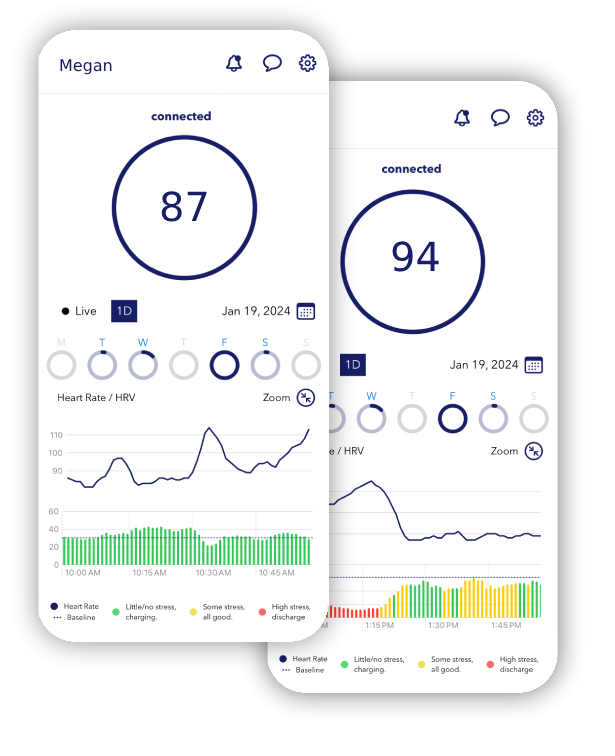
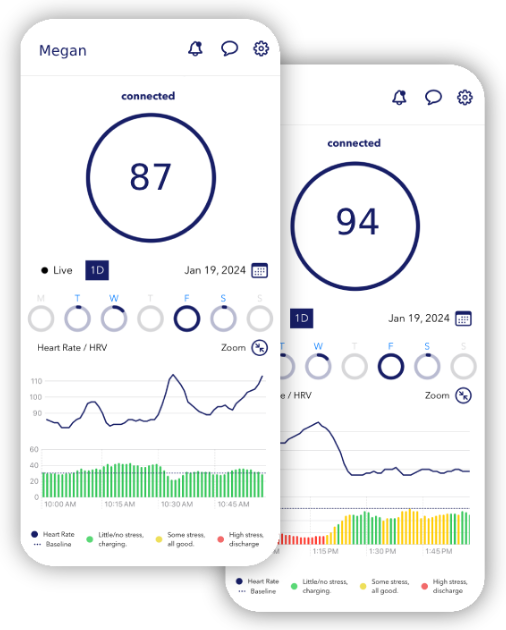
Added section, updated layouts and styling, and adjusted the responsiveness
Added section, updated layouts and styling, and adjusted the responsiveness

Changed region(s): [[0.0, 0.0, 0.9783, 0.9952], [0.2372, 0.2413, 0.3557, 0.3016]]

diff --git a/solution.html b/solution.html
@@ -168,14 +168,14 @@
     </section>
 
     <main>
-        <div class="container first-container" style="padding-block: 120px;">
+        <div class="container first-container" style="padding-block: 120px 60px;">
             <div class="row flat-row main_title wow fadeInUp" data-wow-delay="0.4s">
-                <div class="col-lg-6 col-sm-12 section-left">
+                <div class="col-lg-4 col-sm-12 section-left">
                     <figure>
-                        <img src="img/mobile-slide-0.png" alt="image">
+                        <img src="img/mobile-slide-0.png" class="img-fluid" alt="image">
                     </figure>       
                 </div>
-                <div class="col-lg-6 col-sm-12 section-right" style="text-align: left;margin: auto;">
+                <div class="col-lg-8 col-sm-12 section-right" style="text-align: left; margin: auto;">
                     <h2 id="stress-1">Stress Testing at its Best</h2>
                     <p>
                         The first to use A.I. to manage and predict stress levels, Code 4 Pro is an extremely
@@ -193,14 +193,9 @@
             </div>
         </div>
 
-        <div class="container second-container" style="padding-block: 0 120px;">
+        <div class="container second-container" style="padding-block: 0 60px;">
             <div class="row flat-row main_title wow fadeInUp" data-wow-delay="0.4s">
-                <div class="col-lg-6 col-sm-12 section-right mobile">
-                    <figure>
-                        <img src="img/mobile-slide-2.png" alt="image">
-                    </figure>
-                </div>
-                <div class="col-lg-6 col-sm-12 section-left" style="text-align: left;margin: auto;">
+                <div class="col-lg-8 col-sm-12 section-left" style="text-align: left; margin: auto;">
                     <h2 id="stress-2">
                         A Valuable ‘Co-Pilot’</h2>
 
@@ -221,22 +216,22 @@
                         difficult task.
                     </p>
                 </div>
-                <div class="col-lg-6 col-sm-12 section-right remove">
+                <div class="col-lg-4 col-sm-12 section-right remove">
                     <figure>
-                        <img src="img/mobile-slide-2.png" alt="image">
+                        <img src="img/mobile-slide-2.png" class="img-fluid" alt="image">
                     </figure>
                 </div>
             </div>
         </div>
 
-        <div class="container third-container" style="padding-block: 0 120px;">
+        <div class="container third-container" style="padding-block: 0 60px;">
             <div class="row flat-row main_title wow fadeInUp" data-wow-delay="0.4s">
-                <div class="col-lg-6 col-sm-12 section-left">
+                <div class="col-lg-4 col-sm-12 section-left">
                     <figure>
-                        <img src="img/mobile-slide-0.png" alt="image">
+                        <img src="img/mobile-slide-0.png" class="img-fluid" alt="image">
                     </figure>
                 </div>
-                <div class="col-lg-6 col-sm-12 section-right" style="text-align: left;margin: auto;">
+                <div class="col-lg-8 col-sm-12 section-right" style="text-align: left; margin: auto;">
                     <h2 id="stress-3">How It Works to Reduce Stress</h2>
 
                     <p>
@@ -269,13 +264,12 @@
 
         <div class="container fourth-container" style="padding-block: 0 120px;">
             <div class="row flat-row main_title wow fadeInUp" data-wow-delay="0.4s">
-
-                <div class="col-lg-6 col-sm-12 section-right mobile">
+                <div class="col-lg-4 col-sm-12 section-right mobile">
                     <figure>
-                        <img src="img/mobile-slide-2.png" alt="image">
+                        <img src="img/mobile-slide-2.png" class="img-fluid" alt="image">
                     </figure>
                 </div>
-                <div class="col-lg-6 col-sm-12 section-left" style="text-align: left;margin: auto;">
+                <div class="col-lg-8 col-sm-12 section-left" style="text-align: left; margin: auto;">
 
                     <h2 id="stress-3">Pairing Data with Artificial Intelligence</h2>
 
@@ -301,7 +295,7 @@
                         Post-Traumatic Stress Disorder (PTSD).
                     </p>
                 </div>
-                <div class="col-lg-6 col-sm-12 section-right remove">
+                <div class="col-lg-4 col-sm-12 section-right remove">
                     <figure>
                         <img src="img/mobile-slide-2.png" alt="image">
                     </figure>
@@ -310,21 +304,18 @@
             </div>
         </div>
   
-        <!-- End container -->
-        
-        <div class="search_container_2 flat-call-back">
-            <div class="container" id="decision-making">
-                <div class="row">
-                    <div class="col-lg-12">
-                        <div class="text-call-back">
-                            <div class="title">
-                                <h1>Decision-Making and Stress: A Proven Connection</h1>
-                            </div>
-                        </div>
+        <div class="container" style="padding-block: 0 120px;">
+            <div class="banner_2">
+                <div class="wrapper d-flex align-items-center opacity-mask banner colored">
+                    <div>
+                        <h3>Code 4 Pro <br>Leads the Way</h3>
+                        <p class="mb-3">	By pairing biometric HRV sensors with sophisticated A.I.-based tools <br> our unique solution can be used in any job setting.</p>
+                        <a href="single_tour.html" class="btn_1 white" style="border-radius: 30px; position: static;">Read more</a>
                     </div>
                 </div>
             </div>
         </div>
+        
     </main>
     <!-- End main -->
 

diff --git a/index.html b/index.html
@@ -309,7 +309,7 @@ a.btn_1.white, .btn_1.white {
             <div class="row pb-5">
 				<div class="col-lg-6 wow fadeIn" data-wow-delay="0.1s">
 					<div class="feature h-100">
-						<i class="icon_set_1_icon-30"></i>
+						<i class="icon-lightbulb-3"></i>
                         <div class="d-block">
                             <h3>A Proven <span>Connection</span></h3>
                             <p>
@@ -320,7 +320,7 @@ a.btn_1.white, .btn_1.white {
 				</div>
 				<div class="col-lg-6 wow fadeIn" data-wow-delay="0.2s">
 					<div class="feature h-100">
-						<i class="icon_set_1_icon-41"></i>
+						<i class="icon_set_1_icon-16"></i>
                         <div class="d-block">
                             <h3>The Right Frame of <span>Mind Matters</span></h3>
                             <p>
@@ -335,20 +335,18 @@ a.btn_1.white, .btn_1.white {
                 <a href="#" class="btn_1" style="border-radius: 30px; background: #023047;">View More</a>
             </p>
         </div><!-- End container -->
-    
-        <div class="white_bg" style="padding-block: 80px;">
-			<div class="container">
-				<div class="banner colored">
-					<h4>Code 4 Pro Leads the <span>Way</span></h4>
-					<p>
-						By pairing biometric HRV sensors with sophisticated A.I.-based tools , our unique solution can be used in any job setting.
-					</p>
-					<a href="single_tour.html" class="btn_1 white" style="border-radius: 30px;">Read more</a>
-				</div>
-			</div>
-			<!-- End container -->
-		</div>
-		<!-- End white_bg -->
+
+        <div class="container">
+            <div class="banner_2">
+                <div class="wrapper d-flex align-items-center opacity-mask banner colored">
+                    <div>
+                        <h3>Code 4 Pro <br>Leads the Way</h3>
+                        <p class="mb-3">	By pairing biometric HRV sensors with sophisticated A.I.-based tools <br> our unique solution can be used in any job setting.</p>
+                        <a href="single_tour.html" class="btn_1 white" style="border-radius: 30px; position: static;">Read more</a>
+                    </div>
+                </div>
+            </div>
+        </div>
 
         <div class="container" style="padding-block: 120px;">
 
@@ -360,7 +358,7 @@ a.btn_1.white, .btn_1.white {
 			<div class="row">
 				<div class="col-lg-6">
 					<div class="review_strip">
-						<img src="img/avatar1.jpg" alt="Image" class="rounded-circle">
+						<img src="img/steve.png" width="80" alt="Image" class="rounded-circle">
 						<h4>Jhon Doe</h4>
 						<p>
 							"Lorem ipsum dolor sit amet, consectetur adipiscing elit. Sed a lorem quis neque interdum consequat ut sed sem. Duis quis tempor nunc. Interdum et malesuada fames ac ante ipsum primis in faucibus."
@@ -374,7 +372,7 @@ a.btn_1.white, .btn_1.white {
 
 				<div class="col-lg-6">
 					<div class="review_strip">
-						<img src="img/avatar2.jpg" alt="Image" class="rounded-circle">
+						<img src="img/danish.png" width="80" alt="Image" class="rounded-circle">
 						<h4>Frank Rosso</h4>
 						<p>
 							"Lorem ipsum dolor sit amet, consectetur adipiscing elit. Sed a lorem quis neque interdum consequat ut sed sem. Duis quis tempor nunc. Interdum et malesuada fames ac ante ipsum primis in faucibus."
@@ -390,7 +388,7 @@ a.btn_1.white, .btn_1.white {
 			<div class="row">
 				<div class="col-lg-6">
 					<div class="review_strip">
-						<img src="img/avatar3.jpg" alt="Image" class="rounded-circle">
+						<img src="img/mike.png" width="80" alt="Image" class="rounded-circle">
 						<h4>Marc twain</h4>
 						<p>
 							"Lorem ipsum dolor sit amet, consectetur adipiscing elit. Sed a lorem quis neque interdum consequat ut sed sem. Duis quis tempor nunc. Interdum et malesuada fames ac ante ipsum primis in faucibus."
@@ -404,7 +402,7 @@ a.btn_1.white, .btn_1.white {
 
 				<div class="col-lg-6">
 					<div class="review_strip">
-						<img src="img/avatar1.jpg" alt="Image" class="rounded-circle">
+						<img src="img/john.png" width="80" alt="Image" class="rounded-circle">
 						<h4>Peter Gabriel</h4>
 						<p>
 							"Lorem ipsum dolor sit amet, consectetur adipiscing elit. Sed a lorem quis neque interdum consequat ut sed sem. Duis quis tempor nunc. Interdum et malesuada fames ac ante ipsum primis in faucibus."

diff --git a/customer.html b/customer.html
@@ -181,7 +181,10 @@
             <div class="container second-container" style="padding-block: 0 120px;">
                 <div class="row" style="background-color: #023047; padding: 60px; border-radius: 40px;">
                     <div class="col-md-6 first-column">
-                        <h2 class="text-light m-0">The first tool to objectively measure and manage stress in real time, Code 4 Pro offers tremendous benefits to many types of careers:</h2>    
+                        <h3 class="text-light fw-bold m-0 mb-3">The first tool to objectively measure and manage stress in real time, Code 4 Pro offers tremendous benefits to many types of careers:</h3>   
+                        <figure>
+                            <img src="img/mobile-slide-3.png" class="img-fluid" alt="image">
+                        </figure>
                     </div>
                     <div class="col-md-6 second-column" style="padding-left: 20px;">
                         <ul class="main_li text-light">
@@ -222,6 +225,18 @@
                     <div class="col-md-6 second-column">
                         <img class="img-fluid" style="border-radius: 20px;" src="img/wellness.jpg">
                     </div> 
+                </div>
+            </div>
+
+            <div class="container" style="padding-block: 0 120px;">
+                <div class="banner_2">
+                    <div class="wrapper d-flex align-items-center opacity-mask banner colored">
+                        <div>
+                            <h3>Code 4 Pro <br>Leads the Way</h3>
+                            <p class="mb-3">	By pairing biometric HRV sensors with sophisticated A.I.-based tools <br> our unique solution can be used in any job setting.</p>
+                            <a href="single_tour.html" class="btn_1 white" style="border-radius: 30px; position: static;">Read more</a>
+                        </div>
+                    </div>
                 </div>
             </div>
 

diff --git a/teams.html b/teams.html
@@ -205,7 +205,7 @@
 
 				<div class="col-lg-4 wow zoomIn" data-wow-delay="0.6s">
 					<div class="feature_home">
-						<img src="img/mike.png" alt="steve" class="img-fluid rounded-circle">
+						<img src="img/maria.png" alt="steve" class="img-fluid rounded-circle">
 						<h3><span>Maria </span> Verven</h3>
 						<p>
 							Maria Verven is a strategic, accredited marketing professional with over 40 years experience helping clients create solid brand reputations, build a strong market presence and meet their revenue goals. An expert in helping start-up companies get to the next phase, Verven makes the most of limited resources, employing well-honed skills...
@@ -299,6 +299,18 @@
             </div>
         </div> -->
 
+        <div class="container" style="padding-block: 0 120px;">
+            <div class="banner_2">
+                <div class="wrapper d-flex align-items-center opacity-mask banner colored">
+                    <div>
+                        <h3>Code 4 Pro <br>Leads the Way</h3>
+                        <p class="mb-3">	By pairing biometric HRV sensors with sophisticated A.I.-based tools <br> our unique solution can be used in any job setting.</p>
+                        <a href="single_tour.html" class="btn_1 white" style="border-radius: 30px; position: static;">Read more</a>
+                    </div>
+                </div>
+            </div>
+        </div>
+        
     </main>
     <!-- End main -->
 

diff --git a/law-enforcement.html b/law-enforcement.html
@@ -267,6 +267,19 @@
 
                 </div>
             </div>
+
+            <div class="container" style="padding-block: 0 120px;">
+                <div class="banner_2">
+                    <div class="wrapper d-flex align-items-center opacity-mask banner colored">
+                        <div>
+                            <h3>Code 4 Pro <br>Leads the Way</h3>
+                            <p class="mb-3">	By pairing biometric HRV sensors with sophisticated A.I.-based tools <br> our unique solution can be used in any job setting.</p>
+                            <a href="single_tour.html" class="btn_1 white" style="border-radius: 30px; position: static;">Read more</a>
+                        </div>
+                    </div>
+                </div>
+            </div>
+            
         </main>
         <!-- End main -->
         

diff --git a/science.html b/science.html
@@ -267,6 +267,18 @@
             </div>
         </div>
 
+        <div class="container" style="padding-block: 0 120px;">
+            <div class="banner_2">
+                <div class="wrapper d-flex align-items-center opacity-mask banner colored">
+                    <div>
+                        <h3>Code 4 Pro <br>Leads the Way</h3>
+                        <p class="mb-3">	By pairing biometric HRV sensors with sophisticated A.I.-based tools <br> our unique solution can be used in any job setting.</p>
+                        <a href="single_tour.html" class="btn_1 white" style="border-radius: 30px; position: static;">Read more</a>
+                    </div>
+                </div>
+            </div>
+        </div>
+
     </main>
     <!-- End main -->
     <footer class="revealed">
